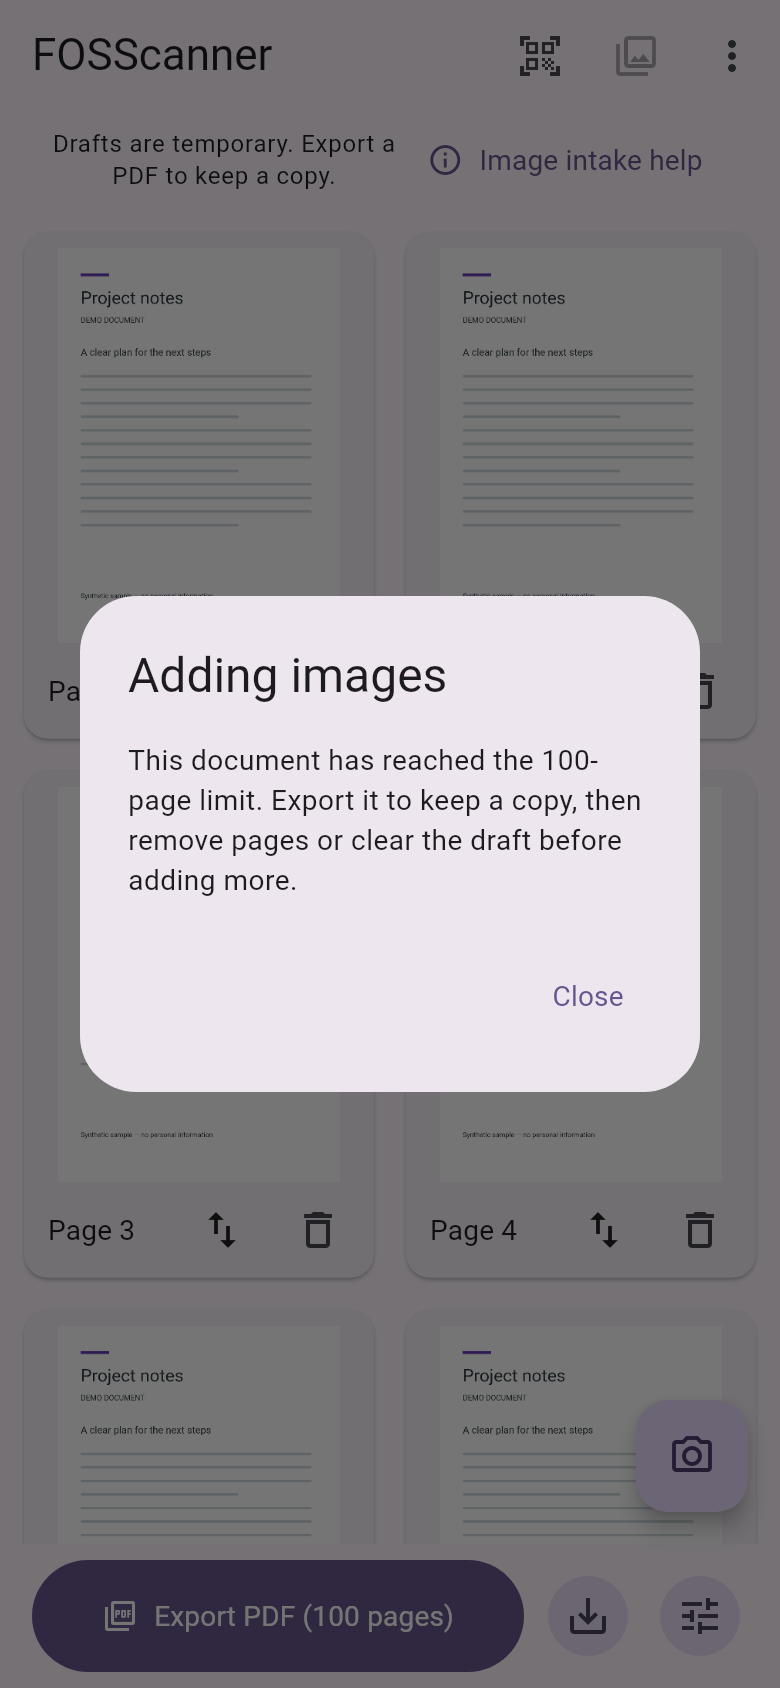
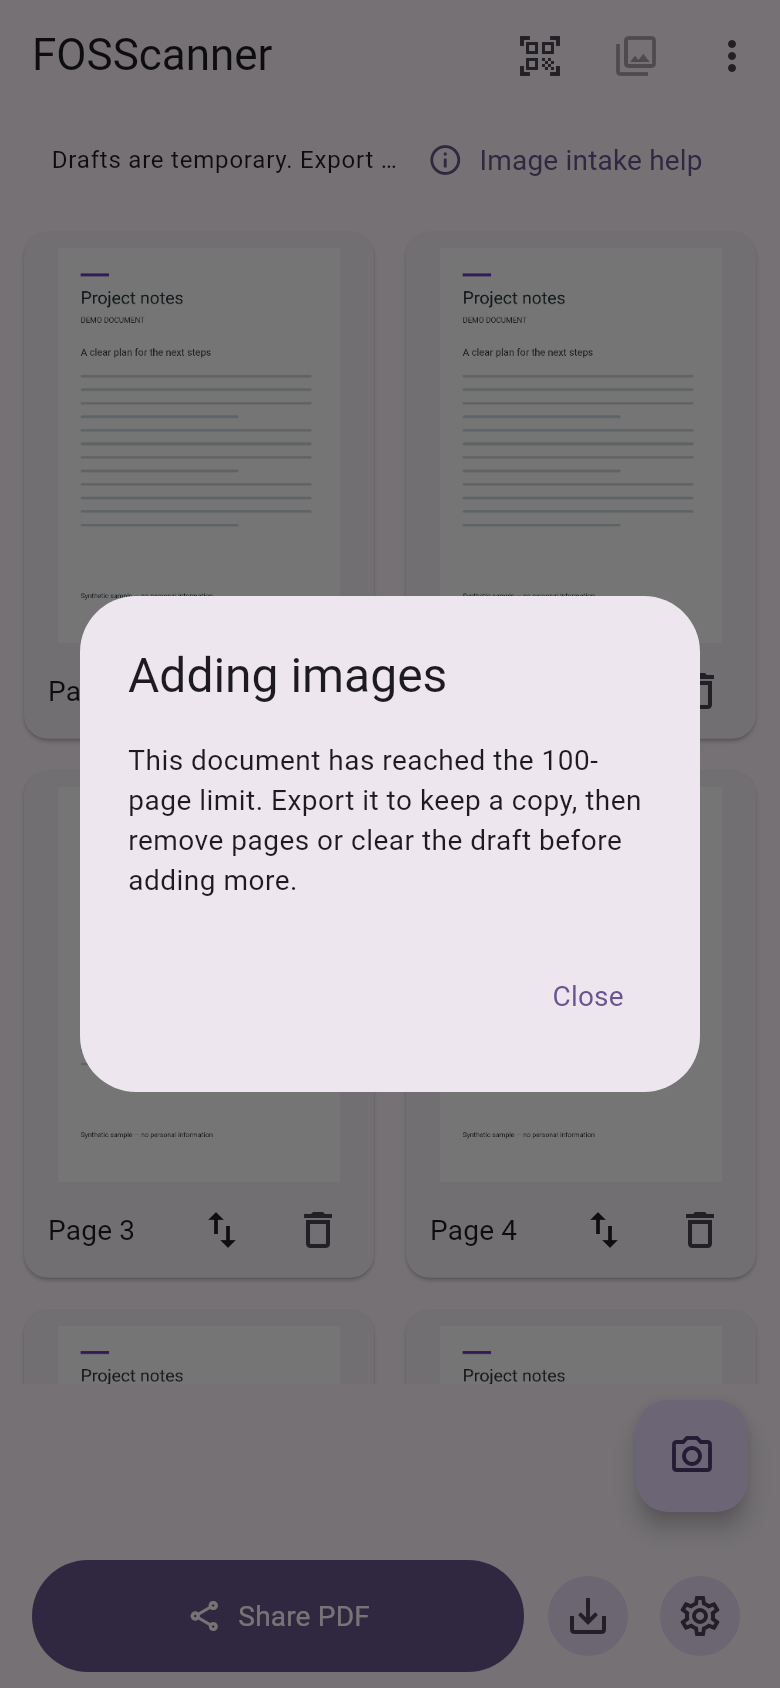
docs: refresh the README screenshots
Re-render docs/screenshots with tool/render_readme_screenshots_test.dart
so they show the current UI: the Share PDF export bar, outlined icons,
the empty state's Import from gallery action and the appearance step's
Filters and Adjust icons.

diff --git a/docs/screenshots/README.md b/docs/screenshots/README.md
@@ -13,7 +13,7 @@ quality.
 | `ui-reorder-pages.png` | Visible earlier/later actions in a page's reorder menu |
 | `ui-export-options.png` | Android searchable-text export options |
 | `crop-full-image-fallback.png` | Full-image selection after detection fallback |
-| `ui-adjust-appearance.png` | Numeric adjustments, Filters icon, and Add page |
+| `ui-adjust-appearance.png` | Page preview with Filters and Adjust icons, and Add page |
 | `ui-filters-panel.png` | Filter choices opened explicitly from the Filters icon |
 | `ui-intake-page-limit.png` | Discoverable intake help at the page-count limit |
 | `ui-intake-limit-guidance.png` | Page-count limit and recovery guidance |
